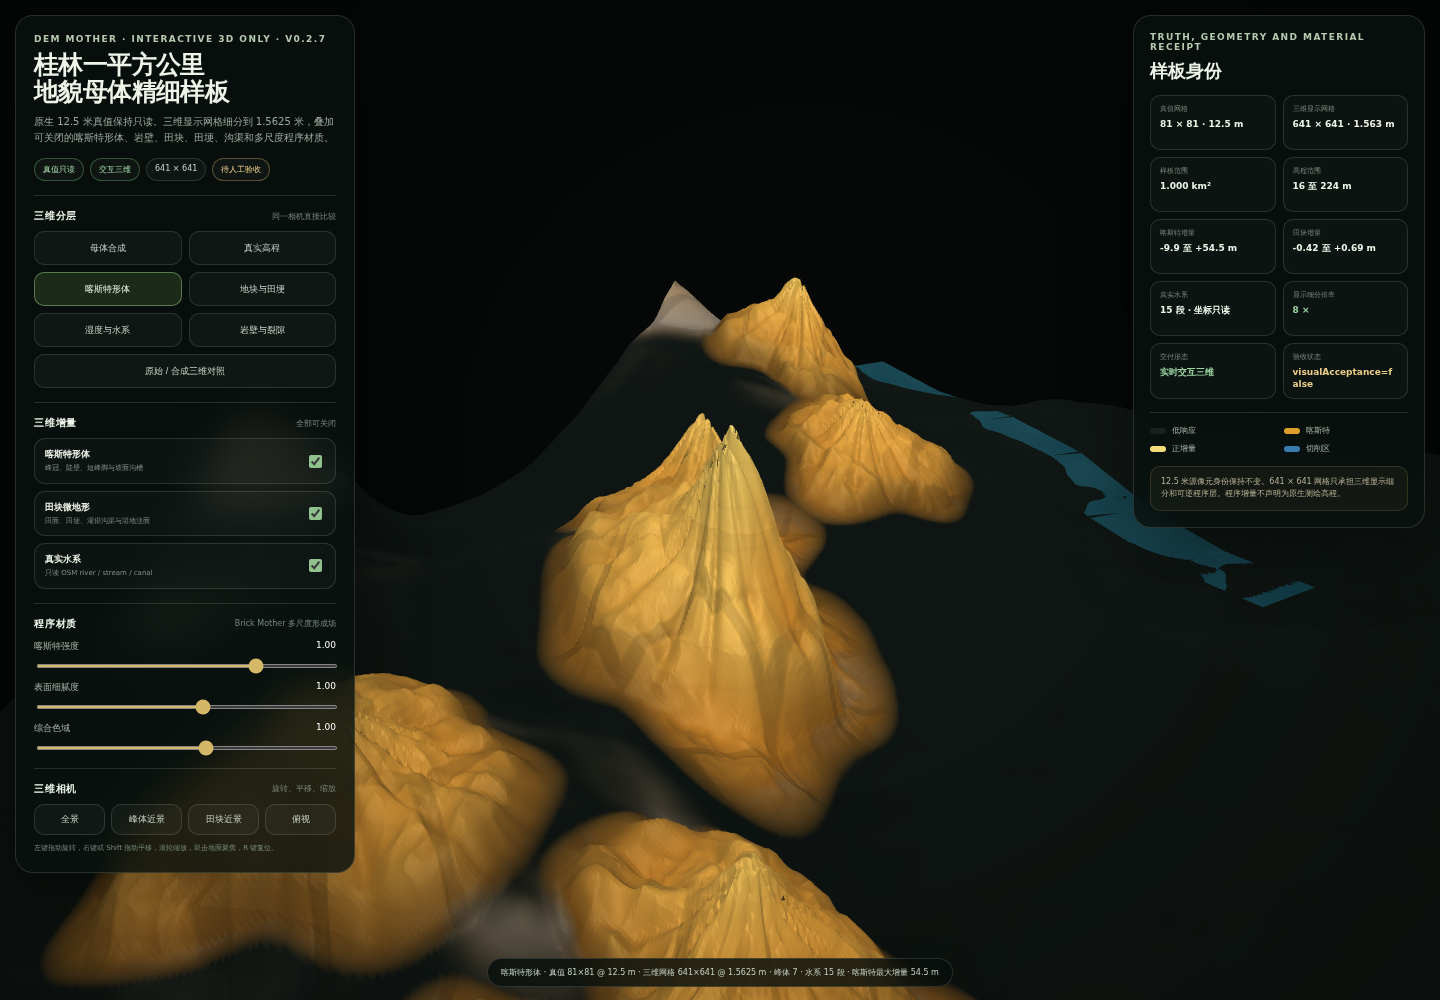
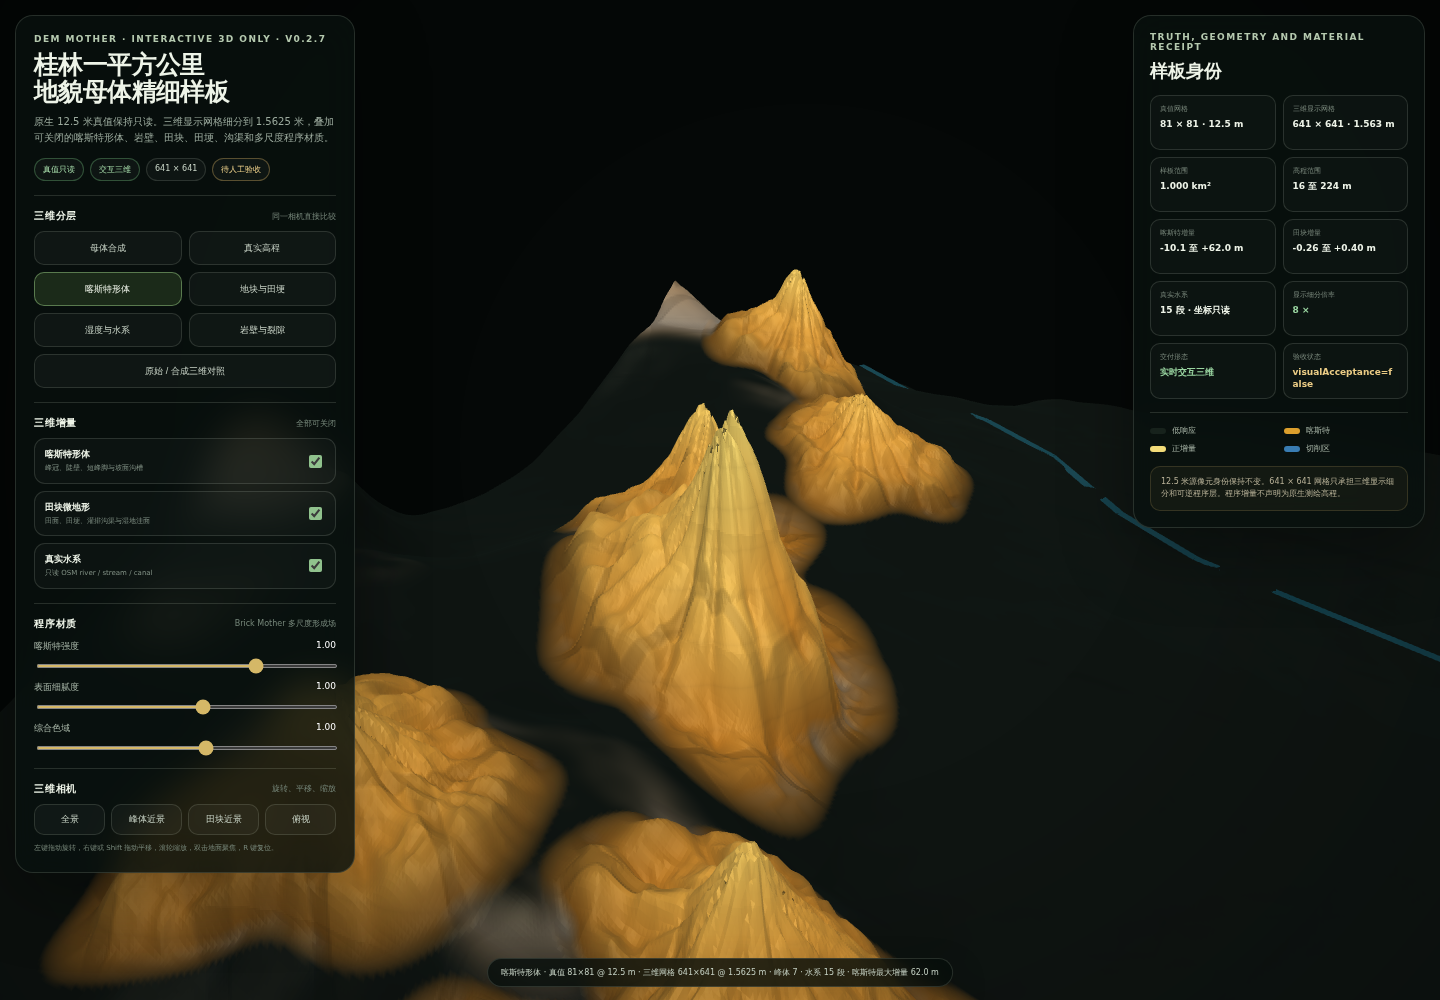
deploy: c3ac481e07ed8f1f741440e6c42a9336c62d23ac

diff --git a/guilin-mother-sample-v002/app.js b/guilin-mother-sample-v002/app.js
@@ -1130,6 +1130,142 @@ deriveTerrainFields=function(dense,segments){
   state.karstRange=[karstMinimum,karstMaximum];state.fieldRange=[fieldMinimum,fieldMaximum];state.fieldStats={paddyFraction:paddySum/count,bundMean:bundSum/count,channelMean:channelSum/count};
   return{slope,curvature,karst,rock,paddy,wet,bund,channel,karstDelta,fieldDelta,unitSeed,flow,talus,cliff,terrace,truthNormals:buildNormalArray(dense),enhancedNormals:buildNormalArray(enhanced),enhanced};
 };
+/* v0.2.8 final visual pass: irregular paddies, thin real waterways, sharper karst crowns and richer correlated color. */
+const TERRAIN_FS_V28=TERRAIN_FS_V24
+  .replace("macro*.20+meso*.12+seed*.54+wet*.14","macro*.12+meso*.08+seed*.62+wet*.18")
+  .replace("vec3(.10,.13,.035),vec3(.25,.31,.065),vec3(.45,.49,.10),vec3(.64,.58,.15),vec3(.79,.70,.27)","vec3(.105,.12,.035),vec3(.28,.30,.055),vec3(.48,.46,.085),vec3(.66,.56,.13),vec3(.75,.66,.24)")
+  .replace("vec3(.115,.070,.028),bund*.86","vec3(.22,.13,.048),bund*.62")
+  .replace("vec3(.055,.057,.054),vec3(.17,.19,.19),vec3(.33,.35,.34),vec3(.52,.52,.47),vec3(.76,.74,.65)","vec3(.065,.067,.063),vec3(.20,.22,.22),vec3(.39,.40,.38),vec3(.59,.58,.52),vec3(.80,.78,.69)")
+  .replace("color*(.23+.59*wrap+.18*sky)","color*(.29+.55*wrap+.16*sky)");
+
+setupWebGL=function(){
+  const gl=canvas.getContext('webgl2',{antialias:true,alpha:false,depth:true,powerPreference:'high-performance',preserveDrawingBuffer:true});
+  assert(gl,'当前浏览器未提供 WebGL2');
+  state.gl=gl;
+  state.programs={terrain:createProgram(gl,TERRAIN_VS,TERRAIN_FS_V28),water:createProgram(gl,WATER_VS,WATER_FS),skirt:createProgram(gl,SKIRT_VS,SKIRT_FS)};
+  state.uniforms={
+    terrain:{viewProjection:gl.getUniformLocation(state.programs.terrain,'uViewProjection'),karst:gl.getUniformLocation(state.programs.terrain,'uKarstStrength'),field:gl.getUniformLocation(state.programs.terrain,'uFieldStrength'),mode:gl.getUniformLocation(state.programs.terrain,'uMode'),minimum:gl.getUniformLocation(state.programs.terrain,'uMinElevation'),maximum:gl.getUniformLocation(state.programs.terrain,'uMaxElevation'),detail:gl.getUniformLocation(state.programs.terrain,'uDetailStrength'),color:gl.getUniformLocation(state.programs.terrain,'uColorStrength'),eye:gl.getUniformLocation(state.programs.terrain,'uEye')},
+    water:{viewProjection:gl.getUniformLocation(state.programs.water,'uViewProjection'),eye:gl.getUniformLocation(state.programs.water,'uEye'),time:gl.getUniformLocation(state.programs.water,'uTime')},
+    skirt:{viewProjection:gl.getUniformLocation(state.programs.skirt,'uViewProjection')}
+  };
+  gl.enable(gl.DEPTH_TEST);gl.depthFunc(gl.LEQUAL);gl.enable(gl.CULL_FACE);gl.cullFace(gl.BACK);gl.frontFace(gl.CCW);gl.clearColor(.018,.032,.028,1);
+};
+
+function nearestCell(x,z,cellX,cellZ,seed,jitter=.72){
+  const gx=Math.floor(x/cellX),gz=Math.floor(z/cellZ);
+  let first=Infinity,second=Infinity,nearestX=gx,nearestZ=gz;
+  for(let oz=-1;oz<=1;oz++)for(let ox=-1;ox<=1;ox++){
+    const cx=gx+ox,cz=gz+oz;
+    const px=(cx+.5+(hash2(cx,cz,seed)-.5)*jitter)*cellX;
+    const pz=(cz+.5+(hash2(cx,cz,seed+47)-.5)*jitter)*cellZ;
+    const distance=Math.hypot(x-px,z-pz);
+    if(distance<first){second=first;first=distance;nearestX=cx;nearestZ=cz;}else if(distance<second)second=distance;
+  }
+  return{first,second,gx:nearestX,gz:nearestZ};
+}
+
+function irregularParcelGrammar(x,z,easting,northing){
+  const baseAngle=.23;
+  const orientationNoise=fbm2(easting*.00072,northing*.00072,SEEDS.field+91,2)*.17;
+  const angle=baseAngle+orientationNoise;
+  const ca=Math.cos(angle),sa=Math.sin(angle);
+  const warpX=fbm2(easting*.00155,northing*.00155,SEEDS.field+31,3)*31;
+  const warpZ=fbm2(easting*.00155+7.4,northing*.00155-5.1,SEEDS.field+73,3)*31;
+  const rx=(x+warpX)*ca+(z+warpZ)*sa;
+  const rz=-(x+warpX)*sa+(z+warpZ)*ca;
+  const parent=nearestCell(rx,rz,126,92,SEEDS.field+149,.76);
+  const parentBoundary=1-smoothstep(2.0,8.5,parent.second-parent.first);
+  const parentSeed=hash2(parent.gx,parent.gz,SEEDS.field+277);
+  const childAngle=angle+.43+(parentSeed-.5)*.16;
+  const cca=Math.cos(childAngle),csa=Math.sin(childAngle);
+  const crx=(x+warpX*.45)*cca+(z+warpZ*.45)*csa;
+  const crz=-(x+warpX*.45)*csa+(z+warpZ*.45)*cca;
+  const child=nearestCell(crx,crz,62,47,SEEDS.field+509,.58);
+  const childBoundary=1-smoothstep(1.7,6.3,child.second-child.first);
+  const splitGate=smoothstep(.42,.72,parentSeed);
+  const boundary=Math.max(parentBoundary,childBoundary*splitGate*.82);
+  const childSeed=hash2(child.gx,child.gz,SEEDS.field+557);
+  const fieldSeed=mix(parentSeed,childSeed,splitGate*.58);
+  const regionalWarp=fbm2(easting*.0024,northing*.0024,SEEDS.field+333,2)*11;
+  const longDrain=1-smoothstep(.0,.105,Math.abs(Math.sin((rx+regionalWarp)*.0115)));
+  const crossDrain=1-smoothstep(.0,.080,Math.abs(Math.sin((rz-regionalWarp)*.0148)));
+  const channel=Math.max(longDrain,crossDrain*.42*smoothstep(.58,.84,parentSeed));
+  return{boundary,fieldSeed,channel};
+}
+
+const deriveTerrainFieldsV27=deriveTerrainFields;
+deriveTerrainFields=function(dense,segments){
+  const fields=deriveTerrainFieldsV27(dense,segments);
+  let fieldMinimum=Infinity,fieldMaximum=-Infinity,karstMinimum=Infinity,karstMaximum=-Infinity,paddySum=0,bundSum=0,channelSum=0;
+  for(let row=0;row<RENDER_GRID;row++){
+    for(let column=0;column<RENDER_GRID;column++){
+      const index=row*RENDER_GRID+column;
+      const truth=dense[index];
+      const x=column*RENDER_SPACING-SIDE_M*.5,z=row*RENDER_SPACING-SIDE_M*.5;
+      const easting=CENTER_E+x,northing=CENTER_N-z;
+      let crownExtra=0,wallCut=0;
+      for(const peak of state.peaks){
+        const ca=Math.cos(peak.angle),sa=Math.sin(peak.angle),dx=x-peak.x,dz=z-peak.z;
+        const rx=(dx*ca+dz*sa)/peak.ellipse,rz=(-dx*sa+dz*ca)*peak.ellipse;
+        const theta=Math.atan2(rz,rx),radius=peak.radius*(.86+.14*peak.phase),r=Math.hypot(rx,rz)/radius;
+        const crown=Math.pow(Math.max(0,1-r/.31),.42);
+        const subA=Math.pow(Math.max(0,1-Math.hypot(rx-radius*.085*Math.cos(peak.phase*23),rz-radius*.085*Math.sin(peak.phase*23))/(radius*.20)),.62);
+        const subB=Math.pow(Math.max(0,1-Math.hypot(rx+radius*.10*Math.cos(peak.phase*31),rz+radius*.10*Math.sin(peak.phase*31))/(radius*.18)),.68);
+        const notch=Math.pow(Math.abs(Math.sin(theta*4+peak.phase*17)),9)*crown;
+        const shoulder=Math.exp(-Math.pow((r-.57)/.12,2));
+        crownExtra+=clamp(peak.amplitude*.12*(crown+subA*.46+subB*.34-notch*.28)-shoulder*2.0, -3.2, 7.5);
+        wallCut+=Math.pow(Math.abs(Math.sin(theta*7+peak.phase*29)),10)*Math.exp(-Math.pow((r-.66)/.24,2))*2.4;
+      }
+      const karstValue=clamp(fields.karstDelta[index]+crownExtra-wallCut*fields.cliff[index],-17,62);
+      const parentMask=smoothstep(.08,.58,fields.paddy[index]);
+      const parcel=irregularParcelGrammar(x,z,easting,northing);
+      const paddyValue=parentMask*mix(.82,1.0,smoothstep(.08,.82,parcel.fieldSeed));
+      const bundValue=paddyValue*Math.pow(parcel.boundary,.60);
+      const channelValue=paddyValue*parcel.channel*(1-parcel.boundary*.68);
+      const terraceStep=.27+parcel.fieldSeed*.14;
+      const target=Math.round(truth/terraceStep)*terraceStep;
+      const flatten=clamp((target-truth)*.38,-.12,.12);
+      const fieldValue=clamp(paddyValue*flatten+bundValue*(.24+parcel.fieldSeed*.14)-channelValue*(.15+parcel.fieldSeed*.10),-.26,.40);
+      fields.karstDelta[index]=karstValue;
+      fields.paddy[index]=paddyValue;
+      fields.bund[index]=bundValue;
+      fields.channel[index]=channelValue;
+      fields.fieldDelta[index]=fieldValue;
+      fields.unitSeed[index]=parcel.fieldSeed;
+      fields.flow[index]=clamp(fields.flow[index]+channelValue*.40,0,1);
+      fields.rock[index]*=1-paddyValue*.98;
+      fields.cliff[index]*=1-paddyValue*.99;
+      fields.talus[index]*=1-paddyValue*.90;
+      fields.enhanced[index]=truth+karstValue+fieldValue;
+      fieldMinimum=Math.min(fieldMinimum,fieldValue);fieldMaximum=Math.max(fieldMaximum,fieldValue);karstMinimum=Math.min(karstMinimum,karstValue);karstMaximum=Math.max(karstMaximum,karstValue);paddySum+=paddyValue;bundSum+=bundValue;channelSum+=channelValue;
+    }
+  }
+  fields.enhancedNormals=buildNormalArray(fields.enhanced);
+  state.fieldRange=[fieldMinimum,fieldMaximum];state.karstRange=[karstMinimum,karstMaximum];state.fieldStats={paddyFraction:paddySum/fields.paddy.length,bundMean:bundSum/fields.bund.length,channelMean:channelSum/fields.channel.length};
+  return fields;
+};
+
+buildWaterMesh=function(){
+  const gl=state.gl,vertices=[],indices=[];
+  const add=(x,y,z,c)=>{vertices.push(x,y,z,c);return vertices.length/4-1;};
+  for(const segment of state.segments){
+    const dx=segment.x1-segment.x0,dz=segment.z1-segment.z0,length=Math.hypot(dx,dz);
+    if(length<11)continue;
+    const nx=-dz/length,nz=dx/length;
+    const halfWidth=segment.classValue===0?3.2:(segment.classValue===1?1.25:.85);
+    const y0=segment.y0-state.minimum+.28,y1=segment.y1-state.minimum+.28;
+    const a=add(segment.x0+nx*halfWidth,y0,segment.z0+nz*halfWidth,segment.classValue);
+    const b=add(segment.x0-nx*halfWidth,y0,segment.z0-nz*halfWidth,segment.classValue);
+    const c=add(segment.x1+nx*halfWidth,y1,segment.z1+nz*halfWidth,segment.classValue);
+    const d=add(segment.x1-nx*halfWidth,y1,segment.z1-nz*halfWidth,segment.classValue);
+    indices.push(a,b,c,c,b,d);
+  }
+  const vao=gl.createVertexArray(),vertexBuffer=gl.createBuffer(),indexBuffer=gl.createBuffer();
+  gl.bindVertexArray(vao);gl.bindBuffer(gl.ARRAY_BUFFER,vertexBuffer);gl.bufferData(gl.ARRAY_BUFFER,new Float32Array(vertices),gl.STATIC_DRAW);
+  gl.enableVertexAttribArray(0);gl.vertexAttribPointer(0,3,gl.FLOAT,false,16,0);gl.enableVertexAttribArray(1);gl.vertexAttribPointer(1,1,gl.FLOAT,false,16,12);
+  gl.bindBuffer(gl.ELEMENT_ARRAY_BUFFER,indexBuffer);gl.bufferData(gl.ELEMENT_ARRAY_BUFFER,new Uint32Array(indices),gl.STATIC_DRAW);gl.bindVertexArray(null);
+  state.water={vao,vertexBuffer,indexBuffer,indexCount:indices.length};
+};
 const MODE_NAMES=['母体合成','真实高程','喀斯特形体','地块与田埂','湿度与水系','岩壁与裂隙','原始 / 合成三维对照'];
 const LEGENDS={0:[['#9a9d47','田块'],['#88714a','泥土'],['#aaa797','石灰岩'],['#2b8090','水系']],1:[['#29482d','低地'],['#6f7042','坡地'],['#aaa99b','高地']],2:[['#17221c','低响应'],['#dc9f2d','喀斯特'],['#f3dc79','正增量'],['#397cb2','切削区']],3:[['#1d2518','禁入'],['#a6ad3d','田面'],['#6f421c','田埂'],['#238395','沟渠']],4:[['#36271a','偏干'],['#35685e','湿润'],['#1f91a0','高湿'],['#216896','真实水系']],5:[['#1d2b1d','覆盖面'],['#73746d','裸岩'],['#332219','裂隙'],['#c1ad72','层理']],6:[['#69725b','左侧真值'],['#a0a34d','右侧母体'],['#2b8090','共享水系'] ]};
 function updateLegend(){const root=$('legend');root.innerHTML='';for(const[color,label]of LEGENDS[state.mode])root.insertAdjacentHTML('beforeend',`<div><i style="background:${color}"></i>${label}</div>`);}
